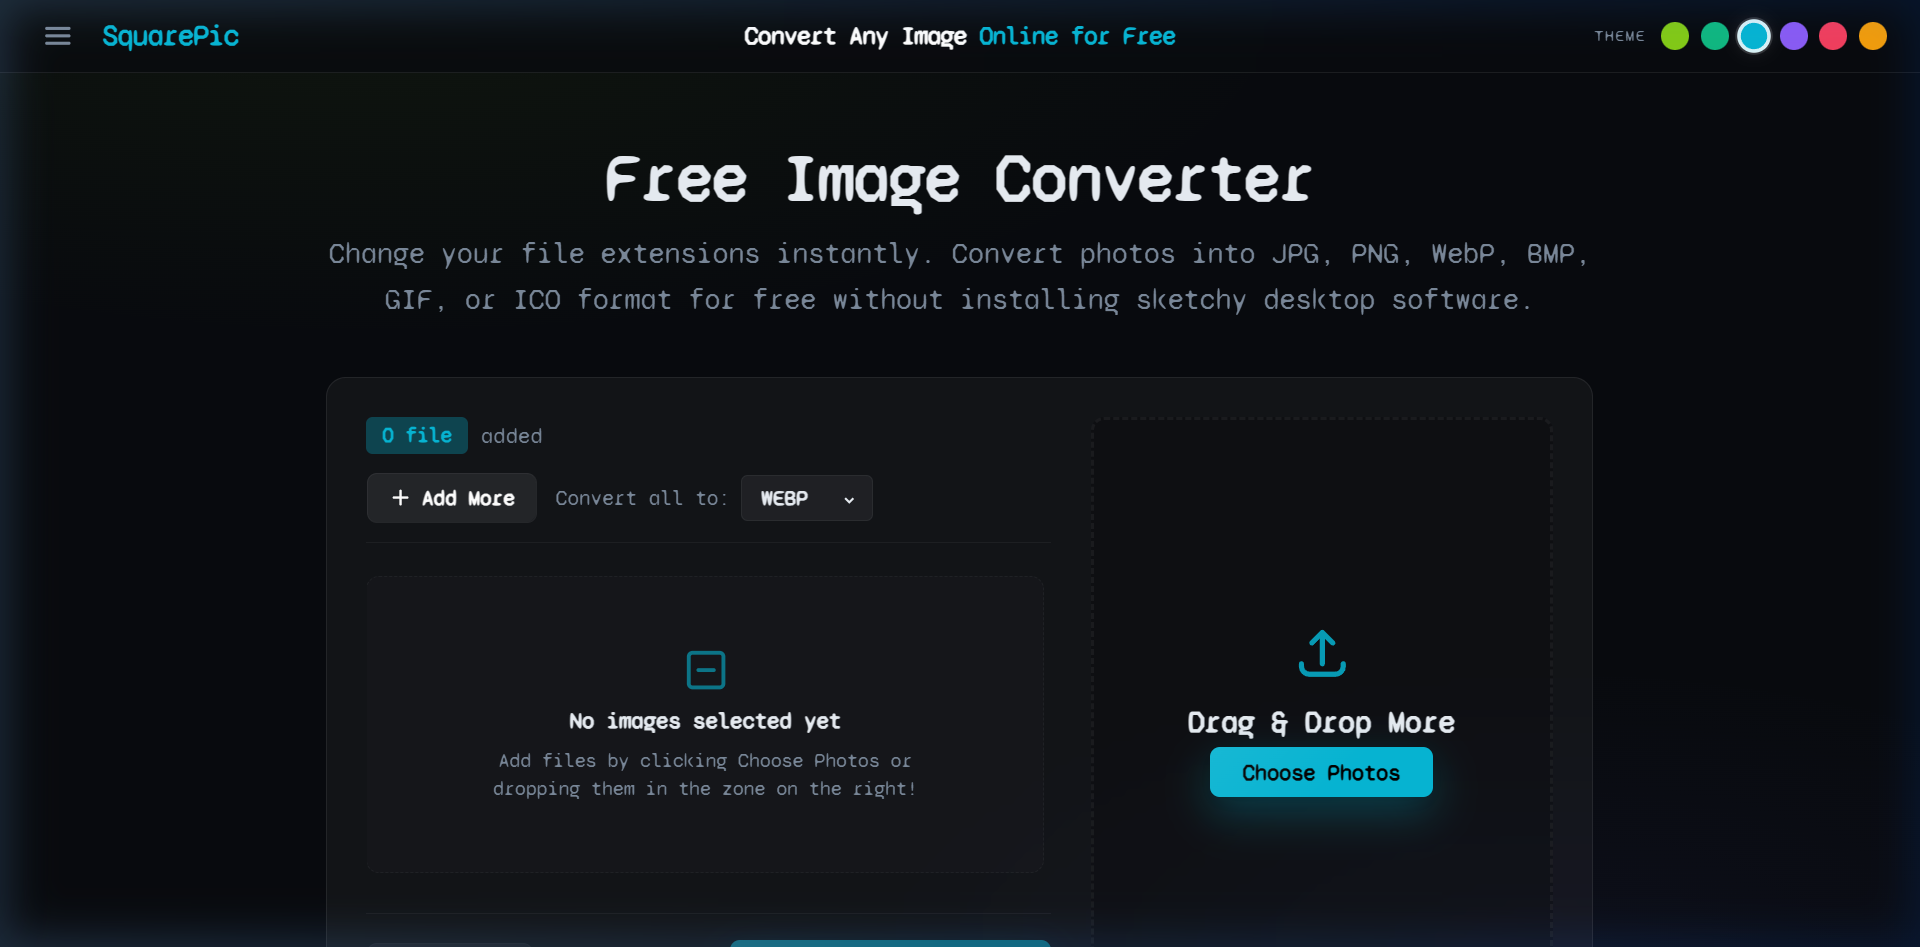
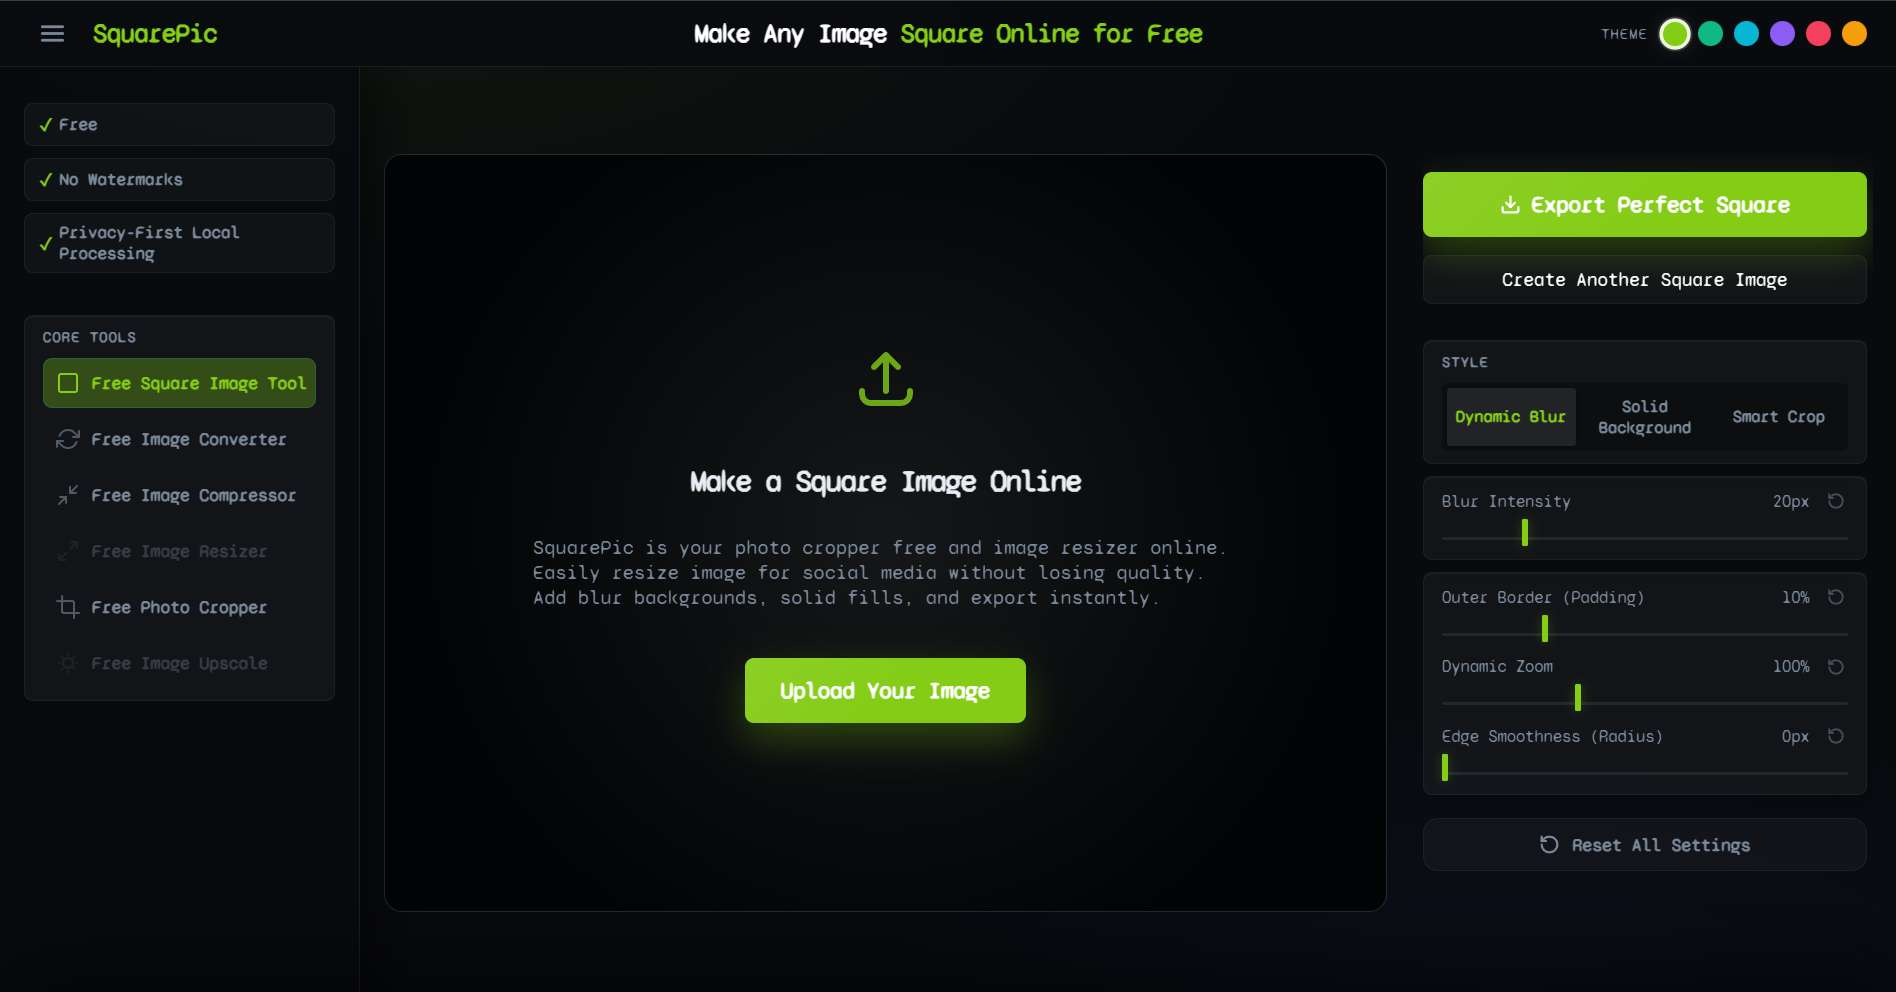
fix: remove unsupported BMP/GIF/ICO formats from converter, add MIME validation, update preview image

diff --git a/free-image-converter.html b/free-image-converter.html
@@ -494,8 +494,7 @@
     
     
     
-    <script type="module" crossorigin src="/assets/free-image-converter-CDUnCa-w.js"></script>
-    <link rel="modulepreload" crossorigin href="/assets/main-BDm0EeqO.js">
+<script type="module" crossorigin src="/src/converter.ts"></script>
     <link rel="stylesheet" crossorigin href="/assets/main-CExCTTTC.css">
   </head>
   <body>
@@ -508,7 +507,7 @@
 
         <h1 style="font-size: 2.5rem; text-align: center; margin-bottom: 0.5rem;">Free Image Converter</h1>
         <p style="text-align: center; font-size: 1.1rem; color: var(--text-muted); margin-bottom: 2rem;">
-          Change your file extensions instantly. Convert photos into JPG, PNG, WebP, BMP, GIF, or ICO format for free without installing sketchy desktop software.
+          Convert your photos into high-quality JPG, PNG, or WebP files instantly. No sketchy desktop software needed.
         </p>
         
         <!-- Interactive Multi-File Image Converter Tool -->
@@ -583,7 +582,7 @@
         </div>
 
         <div class="legal-meta" style="justify-content: center; margin-bottom: 3rem;">
-          <span>JPG, PNG, WebP, BMP, GIF, ICO</span>
+          <span>JPG, PNG, WebP</span>
           <span>Instant Download</span>
           <span class="legal-badge">Browser Based</span>
           <span class="legal-badge">Free to Use</span>